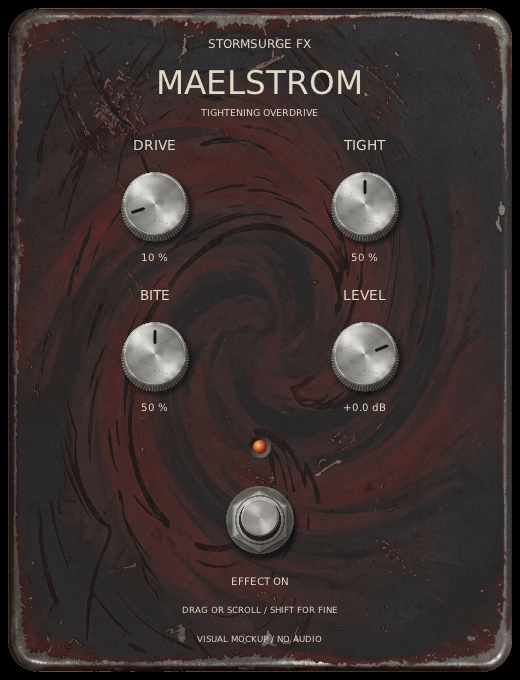
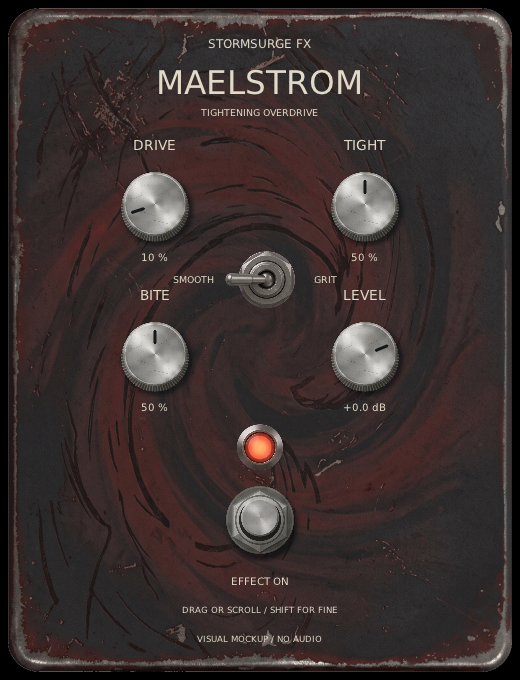
Document both pedals in the README

diff --git a/README.md b/README.md
@@ -1,24 +1,24 @@
 # StormSurge FX
 
-Linux-first, GPLv3 guitar effects for Bitwig and standalone use. Starting with
-Undertow, a delay, and growing toward a small pedalboard. Windows builds and
-experimental Mac plugin builds are in progress.
+Linux-first, GPL-3.0-only guitar effects for Bitwig and standalone use. StormSurge
+now has Undertow, a dark stereo delay, and Maelstrom, a tightening overdrive for
+feeding an external amp modeller.
 
 Named after the maintainer's planned song, **StormSurge**. The first musical
 milestone is to use Undertow on that track.
 
-![Undertow Preview with a worn blue enclosure, metal knobs, Sync toggle and dark-reverb controls](docs/images/undertow-preview.png)
+| Undertow Preview | Maelstrom |
+| --- | --- |
+| <img src="docs/images/undertow-preview.png" alt="Undertow Preview with its Sync toggle, delay controls, optional reverb and effect LED" width="100%"> | <img src="docs/images/maelstrom-mockup.png" alt="Maelstrom interface mockup with Drive, Tight, Bite, Level, Smooth/Grit toggle and effect LED" width="100%"> |
+| Dark stereo delay with ping-pong, tempo sync and optional wet-path reverb. | Tightening overdrive interface. The image is a display-only mockup, not a capture of the audio plugin. |
 
 ## Status
 
 **Under construction.** Undertow Preview connects the dark-delay core to a VST3 and
-JACK-only standalone with working pedal controls, switchable stereo ping-pong and
-free-millisecond or tempo-synced timing. See [listening instructions](docs/preview.md).
-An optional wet-path dark reverb now adds a long ambience experiment. It starts off
-to preserve existing delay projects; use the new Space/Darkness/Amount row to try it.
-The image shows the current Preview editor, captured without opening an audio
-device. Foundation remains a separate pass-through plugin for old test projects.
-There is no public release yet.
+JACK-only standalone. It has switchable stereo ping-pong, free-millisecond or
+tempo-synced timing, and optional wet-path dark reverb. Reverb starts off to preserve
+existing delay projects. See [listening instructions](docs/preview.md). Foundation
+remains a separate pass-through plugin for old test projects.
 This is a separate project from [Omazone](https://github.com/marrabld/omazone),
 not a port of its offline mastering chain.
 
@@ -34,27 +34,39 @@ reproduce his exact rig or recording. The initial scope is deliberately small:
 - Wet/dry mix.
 - Tone control for darker repeats.
 - Output level and bypass with a defined tail policy.
-- Mono/stereo operation with supported channel layouts explicitly documented.
+- Stereo plugin I/O; mono channel negotiation and standalone routing remain work.
 - Alternating stereo ping-pong and tempo sync for the first playable preview.
 
-Tempo sync and ping-pong follow the tested basic delay, but are early requirements,
-not distant extras. Long reverb and a combined ambience chain are later work.
-The standalone application will need device selection and input/output metering.
-The plugin uses its host's audio devices and transport.
+The standalone application still needs device selection and input/output metering.
+The plugin uses its host's audio devices and transport. Host tail reporting remains
+inaccurate, so exports may need explicit trailing silence.
+
+## Second effect: Maelstrom
+
+Maelstrom is a separate overdrive pedal for shaping guitar before an external amp
+modeller such as NAM. Tight reduces bass before clipping, Drive controls the amount
+of overdrive, Bite shapes the clipped signal's high end, and Level sets the output.
+Its optional Grit mode gives a firmer clipping character; Smooth remains the default.
+Amp and cabinet modelling, impulse responses and noise gates stay outside StormSurge.
+
+The sound and controls are ready for further listening through the maintainer's
+amp-model setup. Numerical tests and a successful build do not establish that it
+sounds right, and this README image shows the display-only interface mockup rather
+than audio-plugin playback. See [Maelstrom's design and listening plan](docs/maelstrom.md).
 
 ## Platforms and formats
 
 - **Linux first**, with Bitwig as the primary DAW for initial host testing.
-- **Windows planned**, using shared DSP and interface code rather than a rewrite.
-  Windows builds, device backends and host behaviour still need their own tests.
-- **Plugin and standalone** are intended to share the same effect implementation.
+- **Windows preview builds are available**, using shared DSP and interface code.
+  DAW playback and device backends still need testing.
+- **Undertow's plugin and standalone** share the same delay implementation.
 - C++20, CMake and the ISC-licensed DPF framework are the selected foundation.
   JUCE's current AGPL/commercial terms were reviewed and not adopted. VST3 and
   JACK-only standalone build targets come first. CLAP and LV2 remain later options.
-- **macOS experimental preview**, under issue #19: universal Apple Silicon/Intel
-  VST3 and Audio Unit v2 builds, initially targeting macOS 13+. A colleague will
-  test real-host behaviour. See [Mac tester instructions](docs/macos.md) for format,
-  signing and installation limits. No Mac standalone app is included yet.
+- **macOS experimental preview**: universal Apple Silicon/Intel VST3 and Audio Unit
+  v2 builds, targeting macOS 13+. Real Mac DAW playback remains unverified. See
+  [Mac tester instructions](docs/macos.md) for format, signing and installation
+  limits. No Mac standalone app is included.
 
 ## What this is not
 
@@ -75,21 +87,23 @@ pass-through experiment. Standalone requires JACK-compatible routing and starts
 muted until monitoring is explicitly enabled. Device selection and finished
 standalone usability are not implemented yet.
 
-Cross-platform **experimental preview packages are being prepared**, not yet
-published. The proposed assets are Linux x86_64 VST3, Windows x86_64 VST3 and Mac
-universal VST3/AUv2, with matching source and checksums. See
-[installation and compatibility limits](docs/install-preview.md) and the
-[draft release notes](release/NOTES.md). Windows DAW playback and Dom's Mac test
-remain unverified; CI is not listening evidence. Standalone is not in these
-initial plugin-only downloads.
+Undertow's cross-platform **experimental plugin preview** is available as
+[v0.4.0-preview.1](https://github.com/marrabld/stormsurge-fx/releases/tag/v0.4.0-preview.1).
+It contains Undertow Preview builds for Linux x86_64 and Windows x86_64 VST3, plus
+macOS universal VST3/AUv2, with matching source and checksums. Maelstrom is not in
+that release. See [installation and compatibility limits](docs/install-preview.md).
+Windows DAW playback and Dom's Mac test remain unverified; CI is not listening
+evidence. Standalone is not in these initial plugin-only downloads.
 
 To view the pedal face without opening any audio device:
 
 ```sh
 cmake --preset linux-debug && cmake --build --preset linux-debug
-./build/linux-debug/foundation_gui --view
-# Working-control editor, also without an audio device:
 ./build/linux-debug/preview_gui --view
+# Maelstrom's display-only visual mockup, not the audio plugin:
+./build/linux-debug/maelstrom_mockup --view
+# Legacy pass-through editor:
+./build/linux-debug/foundation_gui --view
 ```
 
 No automatic installation, live-input monitoring or release publication is part of
